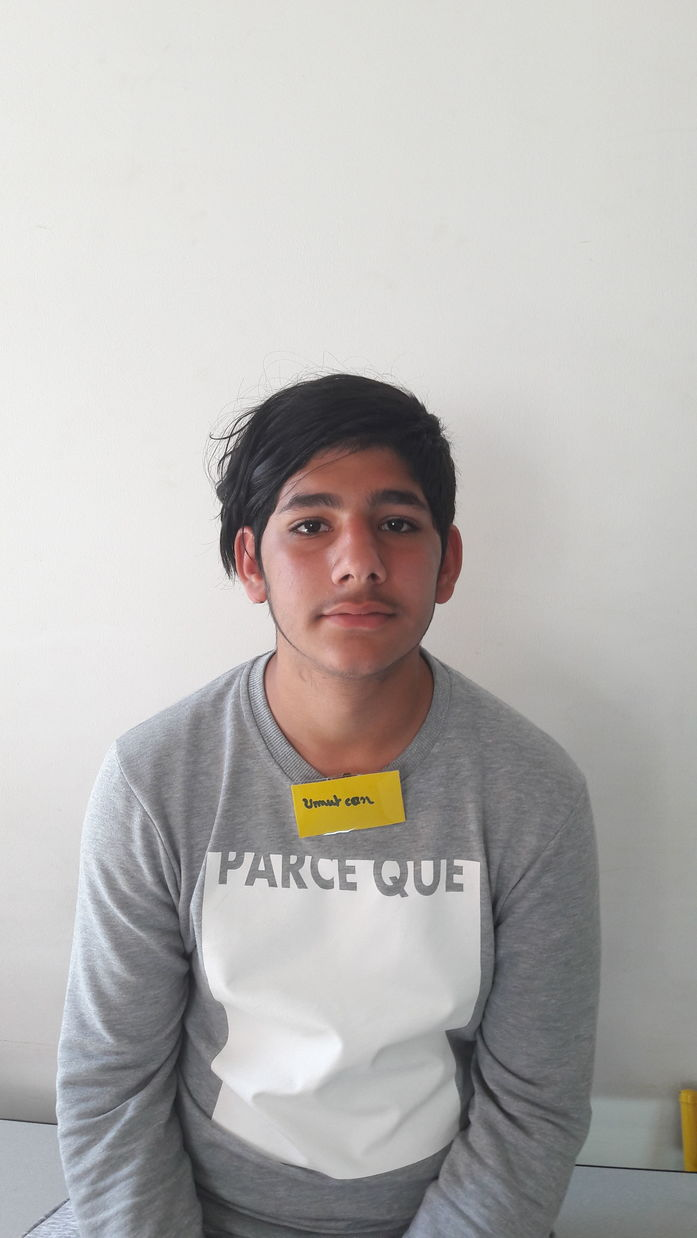
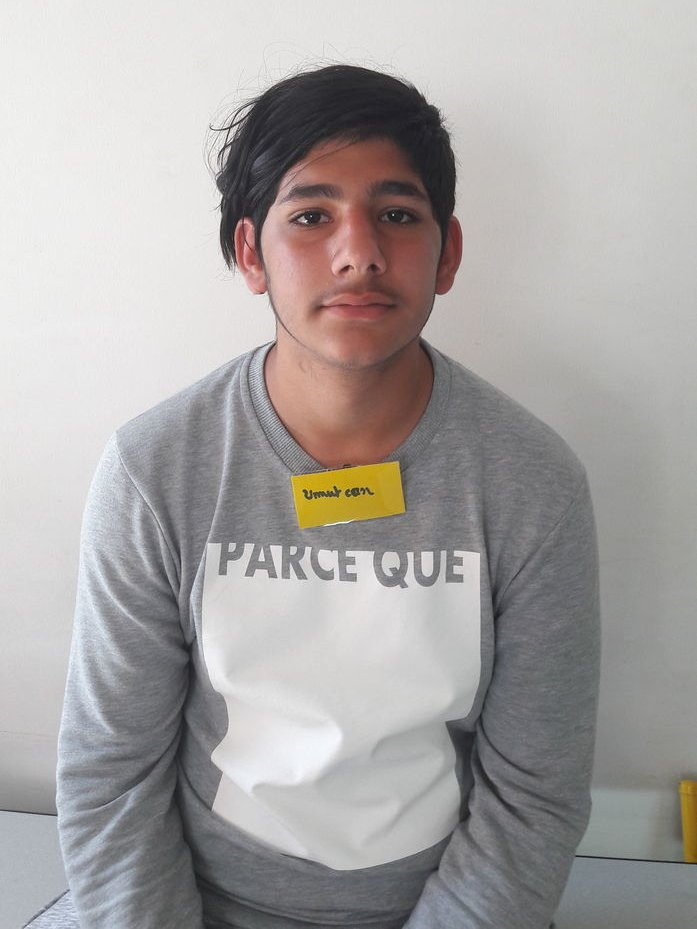
cropped 1 img & added 1 img

diff --git a/index.html b/index.html
@@ -18,6 +18,7 @@
 			<li><a href="#equipe"><span></span><span>&Eacute;quipe</span></a></li>
 			<li><a href="#avion"><span></span><span>Avion</span></a></li>
 			<li><a href="#video"><span></span><span>Vid&eacute;o</span></a></li>
+
 		</ul>
 	</div>
 	<div id="page">
@@ -57,7 +58,7 @@
 						tuteurs sont démoniaquement fabuleux. J'ai retenu que je peux  faire de meilleurs avions, qui volent mieux et c'était bien. </p>
 				</div>
 				<div id="Roxane">
-					<img class="portrait"src="" alt="" />
+					<img class="portrait" src="img/roxane.jpg" alt="roxane" />
 					<p>
 						Je m'appelle Roxane, j'ai 21 ans, je suis au collège Centrale de Marseille, je joue le rôle de coach technique sur le stage, j'aime beaucoup ce stage et j'aime beaucoup que les jeunes l'aiment beaucoup, j'ai retenu que mon équipe est très organisée et
 						m'a surprise de manière positive.
@@ -91,6 +92,7 @@
 				avions en papiers. Il a inventé un avion qui volaient longtemps et très vite. Il avait battu le record du monde. Et depuis ce jour cet avion se fait appelé le golden Rocket.
 
 			</p>
+			<strong>La vitesse moyenne de notre avion est de 3,85/s</strong>
 		</div>
 		<div id="video">
 			<div>

diff --git a/style.css b/style.css
@@ -85,12 +85,16 @@ p{
 .portrait{
 	max-width: 100%;
 }
-#Abdennour, #Yanisse, #Leanne, #Rayane, #umutcan{
+#Abdennour p, #Yanisse p, #Leanne p, #Rayane p, #umutcan p, #Roxane p {
+	height: 12em;
+	text-align: justify;
+}
+#Roxane, #Abdennour, #Yanisse, #Leanne, #Rayane, #umutcan{
 	float: left;
 	max-width: 30%;
 }
 
-#Roxane, #Jessica, #Felix, #Jamil{
+ #Jessica, #Felix, #Jamil{
 	float: none;
 	clear: both;
 }
@@ -98,6 +102,11 @@ video{
 	max-width: 40%;
 	float: left;
 }
+
+footer {
+	clear:both;
+}
+
 footer img{
 	width: 6em;
 	float: left;
